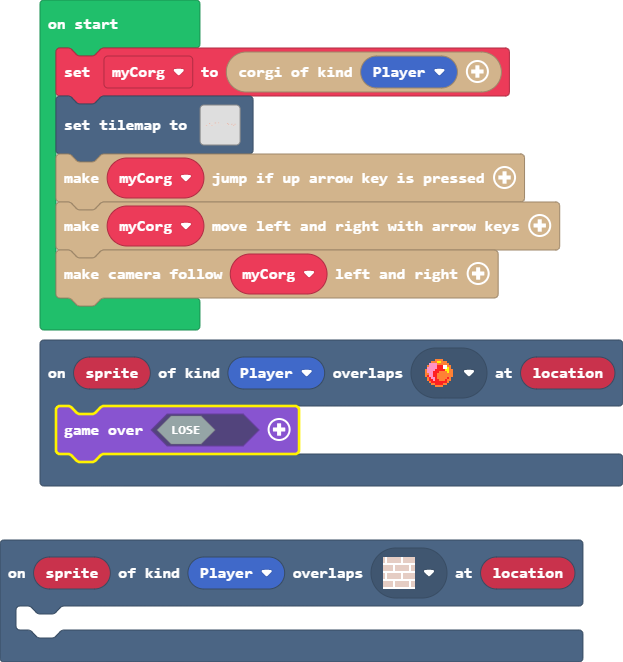
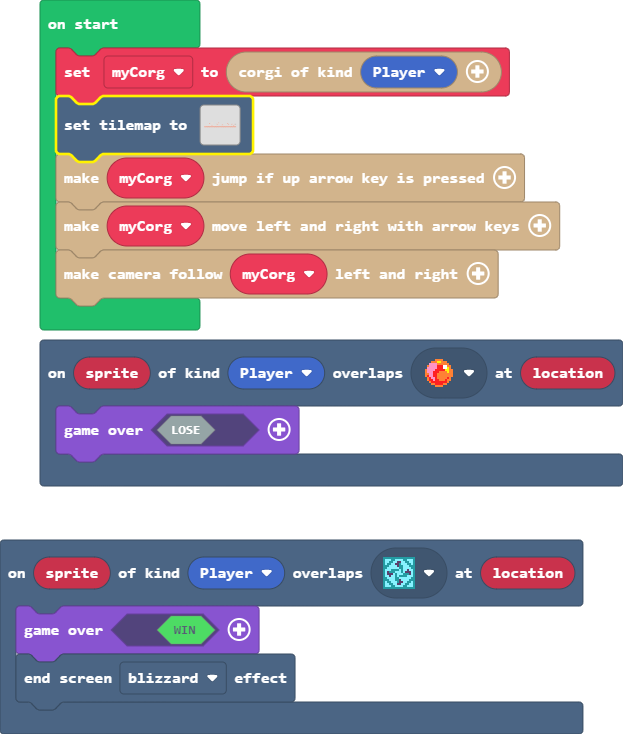
added win and finished obstacles for losing

diff --git a/main.ts b/main.ts
@@ -1,11 +1,12 @@
-scene.onOverlapTile(SpriteKind.Player, sprites.builtin.brick, function (sprite, location) {
-	
-})
 scene.onOverlapTile(SpriteKind.Player, sprites.dungeon.collectibleRedCrystal, function (sprite, location) {
     game.over(false)
 })
+scene.onOverlapTile(SpriteKind.Player, sprites.dungeon.collectibleInsignia, function (sprite, location) {
+    game.over(true)
+    effects.blizzard.endScreenEffect()
+})
 let myCorg = corgio.create(SpriteKind.Player)
-tiles.setTilemap(tiles.createTilemap(hex`3200080000000000000000000000000001000000000000000000000000000000000000000000000000000000000000000000000000000000000000000000000000000100000000020000000002000000000000000000000000000000000000000000000000000000000000000000000002000000010000000000000000010101000000000000000000000000020000000000000000000000000000000000000100000000000001000000000001000000000000000000000000000001010000000200000000020000000002000000000001000000000000000000000000010000000000000000000100000000010000000000000000000000000000000001000000020000000000010101020101010000000000000000000000000100000000000000000000010100000000000201000001010100000000000000000000000000000000000000000000000000000000000000000000000000000000000001000000000000000000000000000000000000000000000000000000000000000000000000000000000000000000000000000000000000`, img`
+tiles.setTilemap(tiles.createTilemap(hex`3200080000000000000000000000000001000000000000000000000000000000000000000000000000000000000000000000000000000000000000000000000000000100000000000000000002000000000000000000000000000000000000000000000000000000000000000000000002000000010000000000000000010101000000000000000000000000020000000000000000000000000000000000000100000000000001000000000001000200000000000000000000000001010000000200000000020000000002030000000001000000000000000000000000010000000000000000000102000000010000000000000000000000000000000001000000000000000000010101020101010000000000000000000000000100000000000000000000010100000000000201000001010100000000000000000000000000000000000000000000000000000000000000000000000000000000000001000000000202020202020202020202020202020202020202020202020202020202020202020202020202020202020202020202020202`, img`
     ............2.....................................
     ............2.....................................
     ............2........222..........................
@@ -14,7 +15,7 @@ tiles.setTilemap(tiles.createTilemap(hex`320008000000000000000000000000000100000
     .........222.222............2..........22......2..
     222..........................................2....
     ..................................................
-    `, [myTiles.transparency16,sprites.builtin.brick,sprites.dungeon.collectibleRedCrystal], TileScale.Sixteen))
+    `, [myTiles.transparency16,sprites.builtin.brick,sprites.dungeon.collectibleRedCrystal,sprites.dungeon.collectibleInsignia], TileScale.Sixteen))
 myCorg.verticalMovement()
 myCorg.horizontalMovement()
 myCorg.follow()
